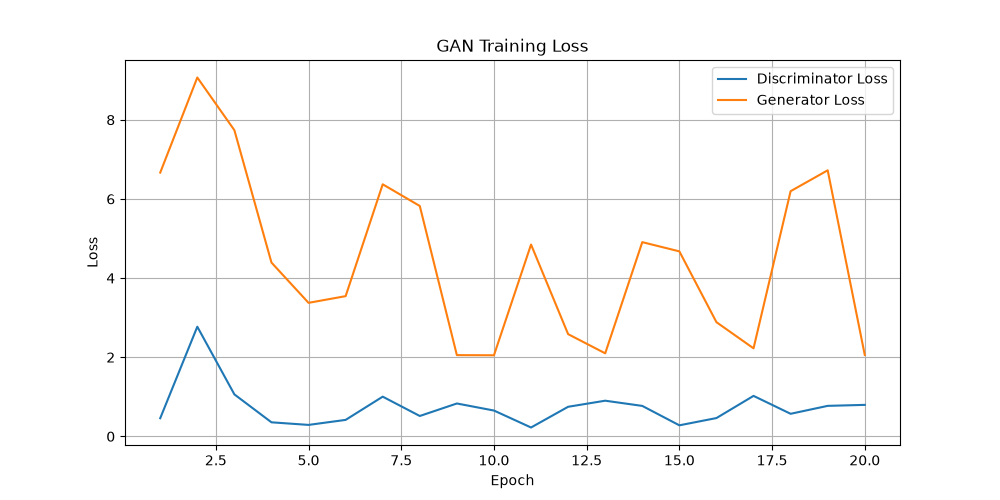
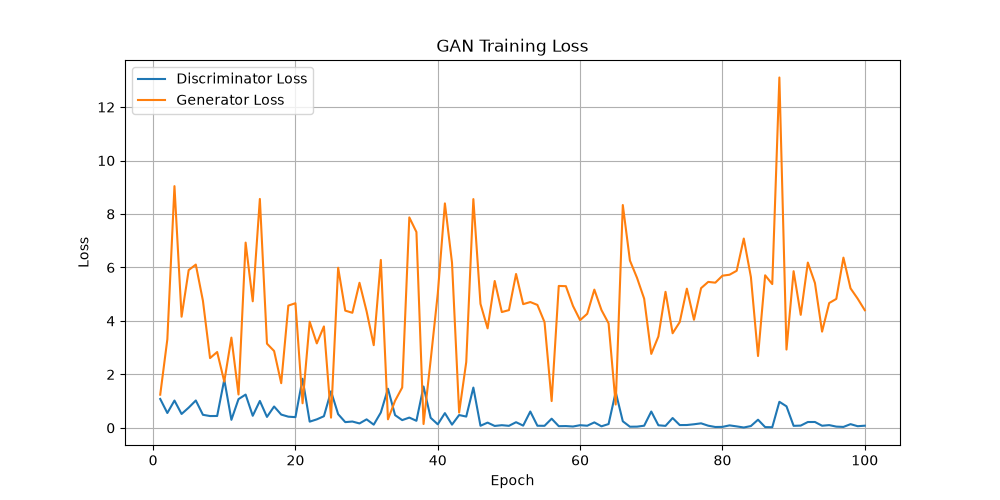
Improve dashboard UI and dataset analytics

diff --git a/frontend/style.css b/frontend/style.css
@@ -95,6 +95,30 @@ button {
     list-style: none;
 
     padding: 0;
+
+    justify-content: center;
+}
+
+#history-list li {
+
+    background: #e8f0ff;
+
+    padding: 10px 15px;
+
+    border-radius: 20px;
+
+    cursor: pointer;
+
+    transition: 0.2s;
+
+    font-weight: bold;
+}
+
+#history-list li:hover {
+
+    transform: scale(1.05);
+
+    background: #d6e5ff;
 }
 
 #ml-dashboard {
@@ -175,4 +199,51 @@ button {
 
     box-shadow:
         0px 4px 10px rgba(0,0,0,0.2);
+}
+
+#project-overview {
+
+    width: 80%;
+
+    margin: 20px auto;
+
+    padding: 25px;
+
+    background: white;
+
+    border-radius: 10px;
+
+    box-shadow:
+        0px 4px 10px rgba(0,0,0,0.2);
+
+    text-align: center;
+}
+
+#project-overview p {
+
+    max-width: 800px;
+
+    margin: auto;
+
+    line-height: 1.6;
+}
+
+#feature-tags {
+
+    margin-top: 20px;
+}
+
+.tag {
+
+    display: inline-block;
+
+    padding: 10px 15px;
+
+    margin: 5px;
+
+    border-radius: 20px;
+
+    background: #e8f0ff;
+
+    font-weight: bold;
 }

diff --git a/frontend/index.html b/frontend/index.html
@@ -13,6 +13,40 @@
 
     <h1>AI Synthetic Identity Studio</h1>
 
+    <div id="project-overview">
+
+        <h2>
+            Privacy-Preserving Synthetic Identity Generation
+        </h2>
+
+        <p>
+            Generate realistic synthetic faces and identities
+            using a Deep Convolutional Generative Adversarial
+            Network (DCGAN) trained on the CelebA-HQ dataset.
+        </p>
+
+        <div id="feature-tags">
+
+            <span class="tag">
+                Face Generation
+            </span>
+
+            <span class="tag">
+                Identity Synthesis
+            </span>
+
+            <span class="tag">
+                Dataset Export
+            </span>
+
+            <span class="tag">
+                Training Analytics
+            </span>
+
+        </div>
+
+    </div>
+
     <div class="action-section">
 
         <h2>Identity Actions</h2>
@@ -64,7 +98,7 @@
     <div class="container">
         <div id="dataset-info">
 
-            <h2>Dataset Statistics</h2>
+            <h2>Generated Dataset Statistics</h2>
 
             <p id="dataset-size">
                 Dataset Size: 0